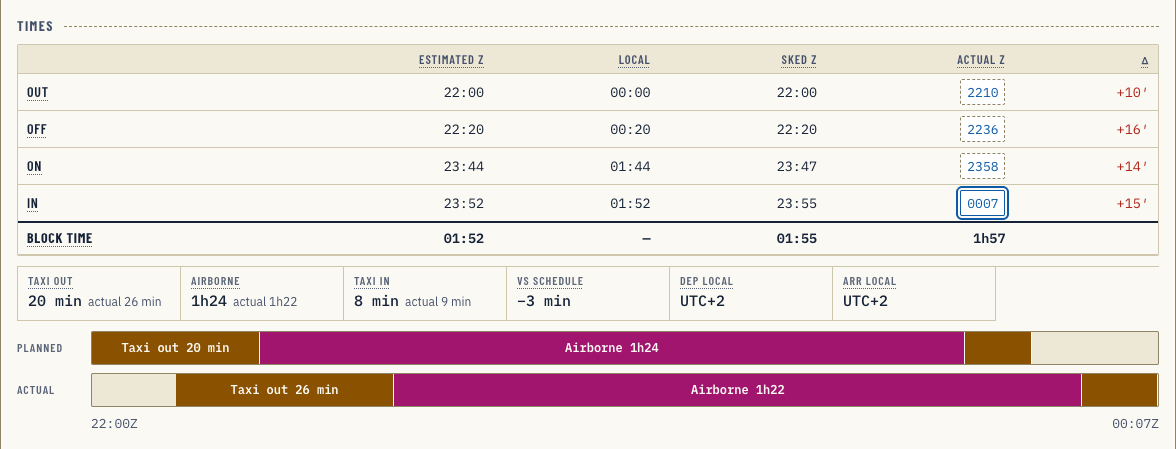
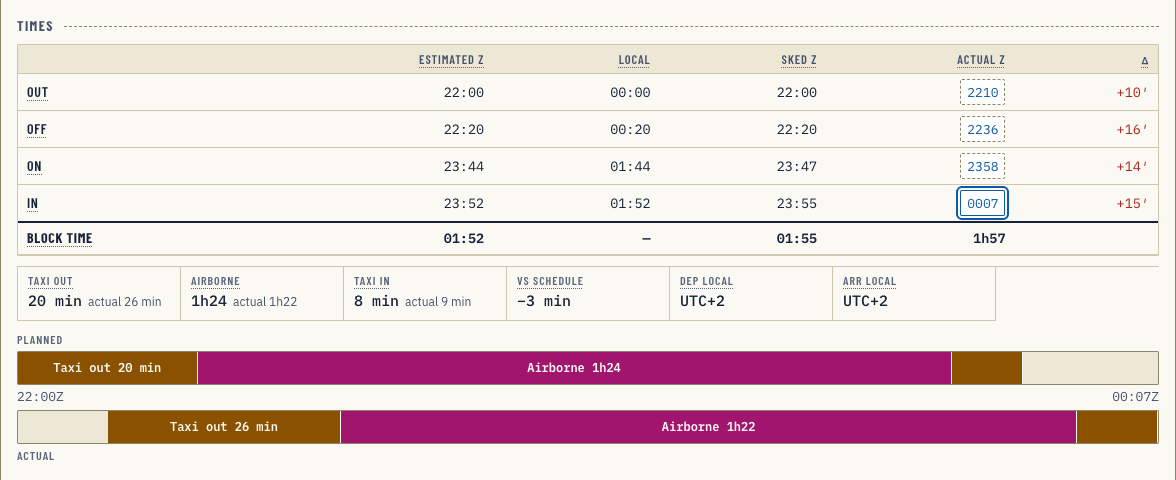
Release 1.6.0: actual runway, RETO, landing-distance estimate
- Runway analysis: ACT radio for the runway actually used, linked to the
  actual RWY box, with a readout (wind components, FLEX / V-speeds,
  MTOW / MLW margin, landing-grid MLW, length, ILS) and an estimated
  factored landing distance for a non-planned landing runway
- Nav log: Times & weights OFF switch adds a RETO column
- Times & weights timeline: PLANNED above, Z times between, ACTUAL below
- Fix: readable landing-distance labels at any length, outlined over the
  estimate hatching; ACARS runway tables shifted one column
- README: new runway analysis, route map & waypoint and weather cards
  screenshots; blank template and airport weather shots removed

Changed region(s): [[0.0, 0.0312, 1.0, 0.9666]]

diff --git a/README.md b/README.md
@@ -35,9 +35,9 @@ and every value gets context: derived margins, decoded weather, a vertical profi
   - Fuel: block composition bar, landing fuel, margin above ALTN + FINRES, endurance, burn per NM, PIC extra → total fuel.
   - Weights: max vs estimated gauges, and whether the take-off weight is actually landing-weight limited.
   - Times: taxi / airborne / block durations, local UTC offsets, and a **planned vs actual timeline** on a shared clock.
-  - Flight log: vertical profile with MORA terrain, fuel on board and minimum-fuel line, a route map from the waypoint coordinates over coastlines and country borders, FIR crossings, and a navigation log where ETOs follow your actual take-off time.
+  - Flight log: vertical profile with MORA terrain, fuel on board and minimum-fuel line, a route map from the waypoint coordinates over coastlines and country borders, FIR crossings, and a navigation log where ETOs follow your actual take-off time (or a RETO column from the Actual OFF in Times & weights).
   - PIC extra: switch it into the nav log to get a **TFOB** column (and profile line): EFOB plus the extra still on board, less the cost of carrying it, taken from the OFP's own weight-change impact.
-  - Runway analysis: V-speed cards, FLEX, head- and crosswind components for the planned runway, and factored landing distance against runway length.
+  - Runway analysis: V-speed cards, FLEX, head- and crosswind components for the planned runway, and factored landing distance against runway length. Mark the runway you actually used to get its wind components, limits and margins, and an estimated landing distance when it isn't the planned one.
   - Weather: each airport's METAR and TAF as weather cards (sky picture, wind, visibility, cloud layers, TAF timeline by flight category), decoded token by token with hazard flags, plus a forecast badge on the summary flags for take-off and landing time.
   - Wind: AVG WIND, PWIND and METAR arrows sway like a windsock (faster with more wind, wider and irregular with gusts) and are coloured by strength, calm → storm.
   - NOTAMs: search, category filters, "critical" (CLSD, U/S, NOT AVBL…) and "mentions my planned runway" filters.
@@ -50,13 +50,13 @@ and every value gets context: derived margins, decoded weather, a vertical profi
 
 ## Screenshots
 
-| Blank template | Flight log (night theme) |
+| Runway analysis | Flight log (night theme) |
 | --- | --- |
-| ![Blank flight plan template](docs/screenshots/blank.png) | ![Vertical profile, route map and waypoint panel](docs/screenshots/flight-log.png) |
+| ![Runway analysis with the actual landing runway picked, its readout and the estimated landing distance](docs/screenshots/runway-analysis.png) | ![Vertical profile with fuel and terrain](docs/screenshots/flight-log.png) |
 
-| Airport weather | Settings & saved flights |
+| Route map & waypoint | Settings & saved flights |
 | --- | --- |
-| ![Decoded METAR and TAF cards](docs/screenshots/weather.png) | ![Saved flights and stored entries](docs/screenshots/settings.png) |
+| ![Route map over coastlines and borders with a waypoint selected and its details](docs/screenshots/route-map-waypoint.png) | ![Saved flights and stored entries](docs/screenshots/settings.png) |
 
 **Weather cards page**
 

diff --git a/CHANGELOG.md b/CHANGELOG.md
@@ -2,7 +2,7 @@
 
 All notable changes to OFP Reader. Versions follow [Semantic Versioning](https://semver.org/).
 
-## [Unreleased]
+## [1.6.0] - 2026-10-02
 
 ### Added
 
@@ -12,6 +12,7 @@ All notable changes to OFP Reader. Versions follow [Semantic Versioning](https:/
 
 ### Changed
 
+- README screenshots: the blank template and airport weather shots are replaced by Runway analysis (actual runway and landing-distance estimate) and the route map with a waypoint selected; the weather cards shot now shows a deteriorating 30-hour TAF; the times shot shows the new timeline.
 - **Planned vs actual timeline** in Times & weights: the PLANNED label sits above its bar, the Z start and end times run between the two bars, and the ACTUAL label sits below its bar; the bars span the full width.
 
 ### Fixed
@@ -127,6 +128,7 @@ All notable changes to OFP Reader. Versions follow [Semantic Versioning](https:/
 - Settings page for saved flights, stored entries, export, deletion and theme.
 - Recent-plan chips, Blank plan, a planned vs actual timeline and day/night themes meeting WCAG AA.
 
+[1.6.0]: https://github.com/redomar/ofp-reader/compare/v1.5.0...v1.6.0
 [1.5.0]: https://github.com/redomar/ofp-reader/compare/v1.4.0...v1.5.0
 [1.4.0]: https://github.com/redomar/ofp-reader/compare/v1.3.1...v1.4.0
 [1.3.1]: https://github.com/redomar/ofp-reader/compare/v1.3.0...v1.3.1
